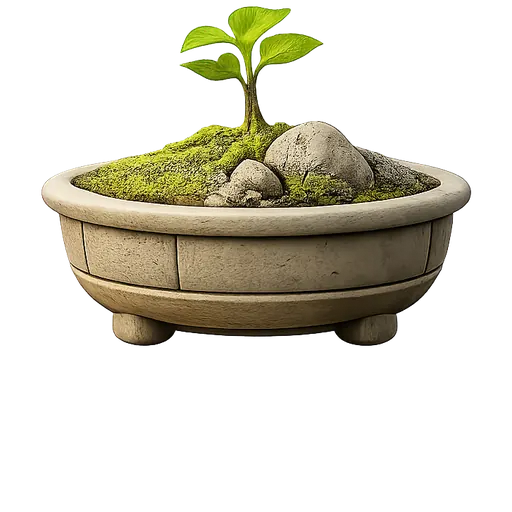
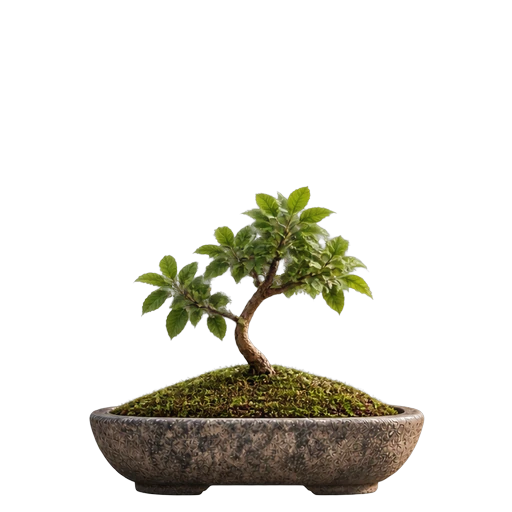
site: bonsai art matches the app, stages 1, 3 and 6

diff --git a/index.html b/index.html
@@ -208,7 +208,6 @@
   .stages figure { background: #000; border-radius: 16px; overflow: hidden; border: 1px solid rgba(255,255,255,0.08); }
   .stages .pic { aspect-ratio: 1 / 1; overflow: hidden; }
   .stages .pic img { width: 100%; height: 100%; object-fit: cover; }
-  .stages figure:first-child .pic img { transform: translateY(22%) scale(1.12); transform-origin: center bottom; }
   .stages figcaption { font-size: 12px; color: #a9b8b0; text-align: center; padding: 8px 6px 10px; }
   .pill { display: inline-block; font-size: 12px; letter-spacing: .08em; text-transform: uppercase; color: var(--mint); border: 1px solid rgba(167,243,208,0.35); border-radius: 999px; padding: 5px 10px; margin-bottom: 16px; }
   .bonsai ul { list-style: none; display: grid; gap: 10px; color: #cfd9d3; font-size: 15px; }

diff --git a/uk/index.html b/uk/index.html
@@ -258,7 +258,6 @@
   .stages figure { background: #000; border-radius: 16px; overflow: hidden; border: 1px solid rgba(255,255,255,0.08); }
   .stages .pic { aspect-ratio: 1 / 1; overflow: hidden; }
   .stages .pic img { width: 100%; height: 100%; object-fit: cover; }
-  .stages figure:first-child .pic img { transform: translateY(22%) scale(1.12); transform-origin: center bottom; }
   .stages figcaption { font-size: 12px; color: #a9b8b0; text-align: center; padding: 8px 6px 10px; }
   .pill { display: inline-block; font-size: 12px; letter-spacing: .08em; text-transform: uppercase; color: var(--mint); border: 1px solid rgba(167,243,208,0.35); border-radius: 999px; padding: 5px 10px; margin-bottom: 16px; }
   .bonsai ul { list-style: none; display: grid; gap: 10px; color: #cfd9d3; font-size: 15px; }
